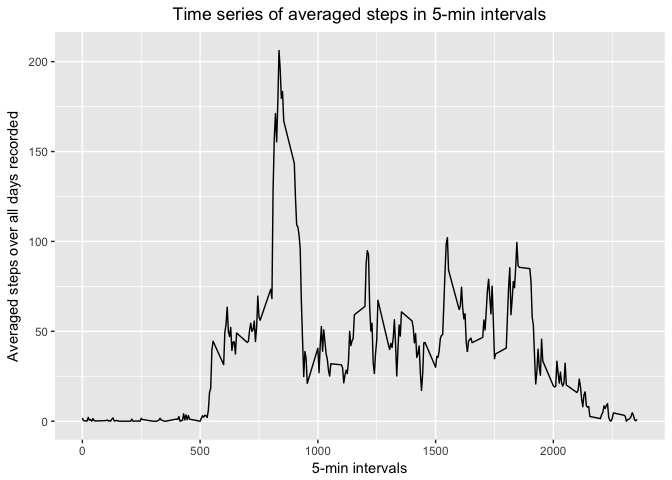
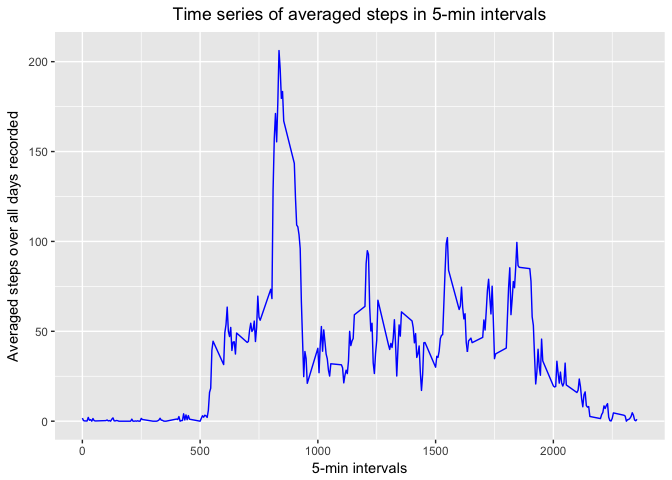
added notes of means represented by dimonds

diff --git a/PA1_template.md b/PA1_template.md
@@ -123,6 +123,8 @@ print(f2)
 
 ![](PA1_template_files/figure-html/unnamed-chunk-5-1.png)<!-- -->
 
+Note that in the plot the mean values are presented by diamond signs.
+
 
 ## What is the average daily activity pattern?
 
@@ -132,7 +134,7 @@ Time series plot of the average number of steps taken on 5-min intervals average
 ```r
 mstep <- aggregate(steps ~ interval, dt, mean)
 f3 <- ggplot(data = mstep, aes(x=interval, y=steps)) +
-        geom_line(na.rm = TRUE) +
+        geom_line(na.rm = TRUE, color = "blue") +
         labs(x="5-min intervals", y="Averaged steps over all days recorded", title = "Time series of averaged steps in 5-min intervals") +
         theme(plot.title = element_text(hjust = 0.5))
 print(f3)
@@ -276,6 +278,8 @@ print(f5)
 ```
 
 ![](PA1_template_files/figure-html/unnamed-chunk-12-1.png)<!-- -->
+
+Note that in the plot the mean values are presented by diamond signs.
 
 
 ## Are there differences in activity patterns between weekdays and weekends?
